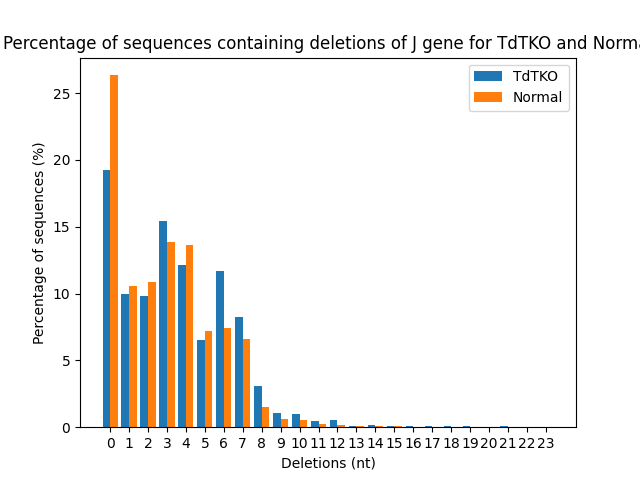
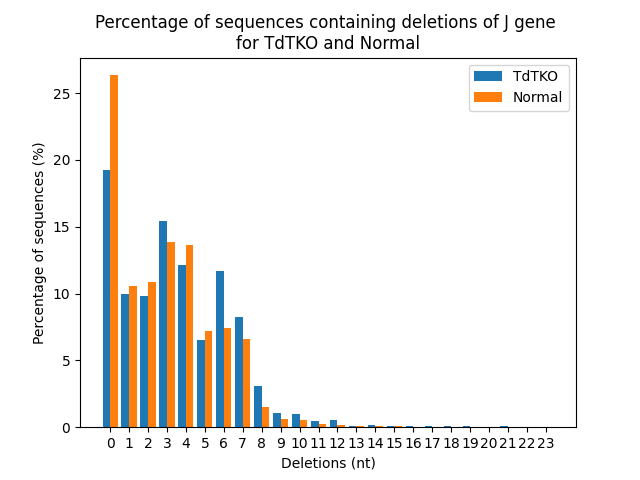
Added a plot showing the deletion lengths of the D segment for sequences where the D could be identified. Fixed the titles of deletion_size_J_TdTKO-Normal.png and deletion_size_V_TdTKO-Normal.png

Changed region(s): [[0.0, 0.0312, 1.0, 0.125]]

diff --git a/code/calculate_deletions.py b/code/calculate_deletions.py
@@ -1,5 +1,6 @@
 import csv
-from plots import plot_deletions
+from plots import plot_deletions, plot_d_deletions
+import numpy
 
 
 def get_vj_deletions(filename):
@@ -31,6 +32,40 @@ def get_vj_deletions(filename):
     return v_del, j_del, total
 
 
+def calculate_d_deletions(filename):
+    """
+
+    :param filename:
+    :return:
+    """
+    d_del = {}
+    unidentified = 0
+    d1_len = 12
+    d2_len = 14
+    total = 0
+    with open(filename, 'r') as infile:
+        reader = csv.reader(infile, delimiter='\t')
+        header = next(reader)
+        for line in reader:
+            total += 1
+            d = line[header.index('D.used')]
+            if 'T' in d or 'GGGGGG' in d:
+                try:
+                    deleted = d2_len - int(line[header.index('D.length.used')])
+                    d_del[deleted] += 1
+                except KeyError:
+                    d_del.update({deleted: 1})
+            elif 'CA' in d:
+                try:
+                    deleted = d1_len - int(line[header.index('D.length.used')])
+                    d_del[deleted] += 1
+                except KeyError:
+                    d_del.update({deleted: 1})
+            else:
+                unidentified += 1
+    return d_del, unidentified, total
+
+
 if __name__ == '__main__':
     x = []
     y = []
@@ -45,8 +80,9 @@ if __name__ == '__main__':
     y.append([vdel_nor[e] / total_nor * 100 for e in sorted(vdel_nor.keys())])
 
     out = f'C:\\Users\\gabev\\PycharmProjects\\MRP_TdTKO_mice\\img\\deletion_size_V_TdTKO-Normal.png'
-    title = 'Percentage of sequences containing deletions of V gene for TdTKO and Normal'
-    plot_deletions(x, y, ['TdTKO', 'Normal'], title, out)
+    title = 'Percentage of sequences containing deletions of V gene \nfor TdTKO and Normal'
+    ticks = list(numpy.arange(18))
+    plot_deletions(x, y, ['TdTKO', 'Normal'], ticks, title, out)
 
     x = []
     y = []
@@ -57,5 +93,27 @@ if __name__ == '__main__':
     x.append(sorted(jdel_nor.keys()))
     y.append([jdel_nor[e] / total_nor * 100 for e in sorted(jdel_nor.keys())])
     out = f'C:\\Users\\gabev\\PycharmProjects\\MRP_TdTKO_mice\\img\\deletion_size_J_TdTKO-Normal.png'
-    title = 'Percentage of sequences containing deletions of J gene for TdTKO and Normal'
-    plot_deletions(x, y, ['TdTKO', 'Normal'], title, out)
+    title = 'Percentage of sequences containing deletions of J gene \nfor TdTKO and Normal'
+    ticks = list(numpy.arange(24))
+    plot_deletions(x, y, ['TdTKO', 'Normal'], ticks, title, out)
+
+    # ----
+    x = []
+    y = []
+    file = 'C:\\Users\\gabev\\PycharmProjects\\MRP_TdTKO_mice\\data_files\\TdTKo\\filtered_data\\filtered_data_TdTKO.tsv'
+    d_del_tdt, unidentified_tdt, total_tdt = calculate_d_deletions(file)
+    x.append(sorted(d_del_tdt.keys()))
+    x[-1].append(x[-1][-1] + 2)
+    y.append([d_del_tdt[e] / total_tdt * 100 for e in sorted(d_del_tdt.keys())])
+    y[-1].append(unidentified_tdt / total_tdt * 100)
+
+    file = 'C:\\Users\\gabev\\PycharmProjects\\MRP_TdTKO_mice\\data_files\\B6\\filtered_data\\filtered_data_Normal.tsv'
+    d_del_nor, unidentified_nor, total_nor = calculate_d_deletions(file)
+    x.append(sorted(d_del_nor.keys()))
+    x[-1].append(x[-1][-1] + 2)
+    y.append([d_del_nor[e] / total_nor * 100 for e in sorted(d_del_tdt.keys())])
+    y[-1].append(unidentified_nor / total_nor * 100)
+
+    out = f'C:\\Users\\gabev\\PycharmProjects\\MRP_TdTKO_mice\\img\\deletion_size_D_TdTKO-Normal.png'
+    title = 'Percentage of sequences containing deletions of D gene \nfor TdTKO and Normal'
+    plot_d_deletions(x, y, ['TdTKO', 'Normal'], title, out)

diff --git a/code/plots.py b/code/plots.py
@@ -1,5 +1,6 @@
 import numpy
 from matplotlib import pyplot as plt
+from matplotlib import axes
 
 
 def plot_supporting_reads():
@@ -135,7 +136,7 @@ def plot_vj_distance_perc(x_points_lists, y_points_lists, avg, labels):
     plt.close()
 
 
-def plot_deletions(x_points_list, y_points_list, labels, title, outfile):
+def plot_deletions(x_points_list, y_points_list, labels, ticks, title, outfile):
     plt.figure()
     x = x_points_list[0]
     x.extend(x_points_list[1])
@@ -145,7 +146,29 @@ def plot_deletions(x_points_list, y_points_list, labels, title, outfile):
     plt.bar(x-0.2, y_points, width=width, label=label)
     y_points, label = y_points_list[1], labels[1]
     plt.bar(x+0.2, y_points, width=width, label=label)
-    plt.xticks(numpy.arange(24))
+    plt.xticks(ticks)
+    plt.title(title)
+    plt.xlabel('Deletions (nt)')
+    plt.ylabel('Percentage of sequences (%)')
+    plt.legend()
+    plt.savefig(outfile)
+    plt.close()
+
+
+def plot_d_deletions(x_points_list, y_points_list, labels, title, outfile):
+    plt.figure()
+    x = x_points_list[0]
+    x.extend(x_points_list[1])
+    x = numpy.asarray(list(set(x)))
+    width = 0.40
+    y_points, label = y_points_list[0], labels[0]
+    plt.bar(x-0.2, y_points, width=width, label=label)
+    y_points, label = y_points_list[1], labels[1]
+    plt.bar(x+0.2, y_points, width=width, label=label)
+    ticks = list(x)
+    tick_labels = [e for e in ticks]
+    tick_labels[-1] = 'Unidentified'
+    plt.xticks(ticks=ticks, labels=tick_labels)
     plt.title(title)
     plt.xlabel('Deletions (nt)')
     plt.ylabel('Percentage of sequences (%)')

diff --git a/code/test.py b/code/test.py
@@ -30,3 +30,6 @@ if __name__ == '__main__':
 
     complementary = ''.join(complementary)
     print(complementary)
+
+    n = [1, 2, 3, 4] + ['string']
+    print(n)
